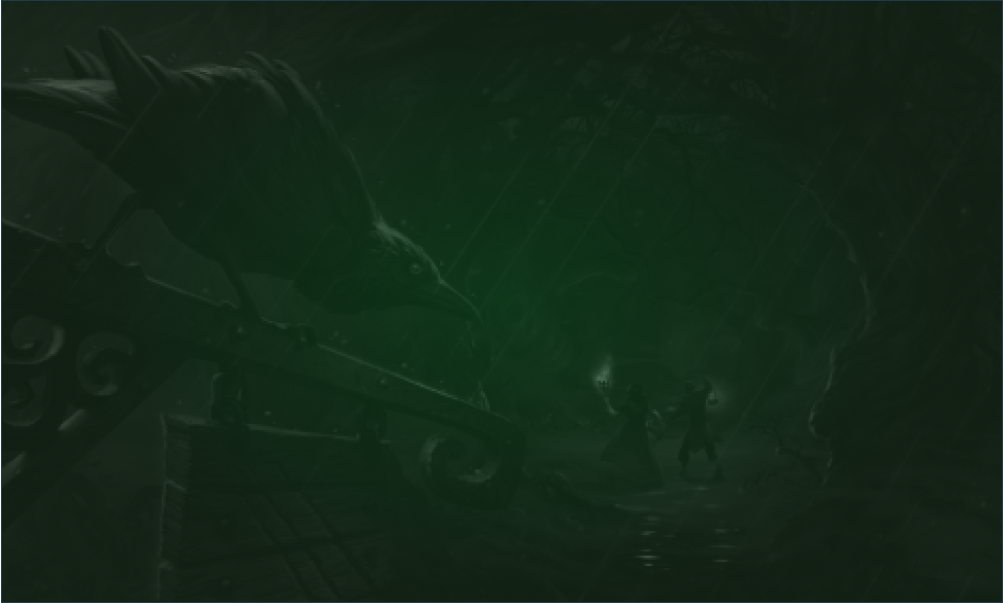
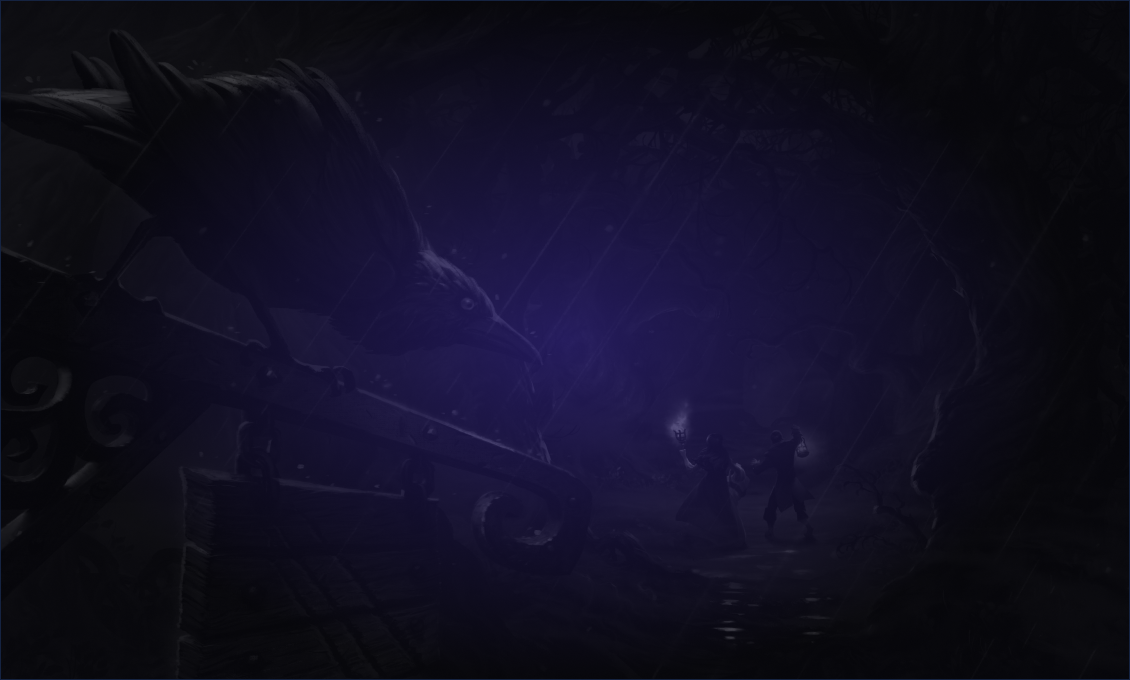
UI: update color for replays notif

diff --git a/core/src/js/services/replays/replays-notification.service.ts b/core/src/js/services/replays/replays-notification.service.ts
@@ -22,29 +22,10 @@ export class ReplaysNotificationService {
 			.subscribe(data => this.showNewMatchEndNotification(Object.assign(new GameStats(), data.data[0])));
 		// this.events.on(Events.GAME_END).subscribe(data => this.showReplayRecordingStart(data.data[0]));
 		console.log('[replays-notification] listening for achievement completion events');
+		window['hop'] = () => {
+			this.showNewMatchEndNotification({ stats: [GameStat.create({} as any)] } as any);
+		};
 	}
-
-	// private async showReplayRecordingStart(reviewId: string) {
-	// 	const prefs = await this.prefs.getPreferences();
-	// 	if (!prefs.replaysShowNotification) {
-	// 		console.log(
-	// 			'[replays-notification] preference is turned off, not showing replay start notification',
-	// 			reviewId,
-	// 		);
-	// 		return;
-	// 	}
-	// 	console.log('[replays-notification] preparing replay start notification', reviewId);
-	// 	// console.log('[replays-notification] will emit notif notification', stat);
-	// 	this.notificationService.emitNewNotification({
-	// 		notificationId: `replay-${reviewId}`,
-	// 		content: this.buildStartNotificationTemplate(reviewId),
-	// 		type: 'match-stats-recorded',
-	// 		app: 'replays',
-	// 		theClass: 'remove-on-update',
-	// 		clickToClose: true,
-	// 		timeout: 0,
-	// 	} as Message);
-	// }
 
 	private async showNewMatchEndNotification(stats: GameStats) {
 		const prefs = await this.prefs.getPreferences();
@@ -53,8 +34,6 @@ export class ReplaysNotificationService {
 			return;
 		}
 		const xpForGame = await this.rewards.getXpForGameInfo();
-		// Give some time for the replay to actually be recorded
-		// setTimeout(() => {
 		const stat = Object.assign(new GameStat(), stats.stats[0]);
 		console.log('[replays-notification] preparing new game stat notification', stat);
 		// console.log('[replays-notification] will emit notif notification', stat);
@@ -68,30 +47,7 @@ export class ReplaysNotificationService {
 			clickToClose: true,
 			eventToSendOnClick: () => new ShowReplayEvent(stat.reviewId),
 		} as Message);
-		// }, 3500);
 	}
-
-	// private buildStartNotificationTemplate(reviewId: string): string {
-	// 	return `
-	// 		<div class="match-stats-message-container replay-${reviewId} unclickable">
-	// 			<div class="loading-icon">
-	// 				<svg class="svg-icon-fill">
-	// 					<use xlink:href="assets/svg/sprite.svg#loading_spiral" />
-	// 				</svg>
-	// 			</div>
-	// 			<div class="message">
-	// 				<div class="title">
-	// 					<span>Game replay being recorded</span>
-	// 				</div>
-	// 				<span class="text">Hold tight!</span>
-	// 			</div>
-	// 			<button class="i-30 close-button">
-	// 				<svg class="svg-icon-fill">
-	// 					<use xmlns:xlink="https://www.w3.org/1999/xlink" xlink:href="assets/svg/sprite.svg#window-control_close"></use>
-	// 				</svg>
-	// 			</button>
-	// 		</div>`;
-	// }
 
 	private buildNotificationTemplate(stat: GameStat, xpForGame: XpForGameInfo): string {
 		const [playerRankFrame, playerRankArt, playerRankTooltip] = stat.buildPlayerRankImage();

diff --git a/core/src/js/services/rewards/rewards-monitor.ts b/core/src/js/services/rewards/rewards-monitor.ts
@@ -89,14 +89,6 @@ export class RewardMonitorService {
 			return;
 		}
 		this.init();
-		window['hop'] = async (levels: number, xp: number) => {
-			this.showXpGainedNotification(levels, xp, {
-				Level: 16,
-				Xp: 20,
-				XpBonusPercent: 10,
-				XpNeeded: 2000,
-			});
-		};
 	}
 
 	public async getXpGained(): Promise<number> {
@@ -200,50 +192,6 @@ export class RewardMonitorService {
 		return (
 			a.Level === b.Level && a.Xp === b.Xp && a.XpNeeded === b.XpNeeded && a.XpBonusPercent === b.XpBonusPercent
 		);
-	}
-
-	private showXpGainedNotification(levelsGained: number, xpGained: number, infoAtGameEnd: RewardsTrackInfo) {
-		const levelsGainedEl = levelsGained
-			? `
-				<div class="xp-level">
-					<span class="text">Levels gained:</span>
-					<span class="value">${levelsGained}</span>
-				</div>`
-			: '';
-		const xpBonusEl = infoAtGameEnd.XpBonusPercent
-			? `
-				<div class="xp-bonus">
-					<span class="text">Xp bonus:</span>
-					<span class="value">${infoAtGameEnd.XpBonusPercent}%</span>
-				</div>`
-			: '';
-		this.notificationService.emitNewNotification({
-			content: `
-				<div class="rewards-message-container">
-					<div class="title">Match over!</div>
-					${levelsGainedEl}
-					<div class="xp-text">
-						<span class="text">Xp gained:</span>
-						<span class="value">${xpGained}</span>
-						<div class="progress">
-							<span class="item bracket">[</span>
-							<span class="item">${infoAtGameEnd.Xp}</span>
-							<span class="item separator">/</span>
-							<span class="item">${infoAtGameEnd.XpNeeded}</span>
-							<span class="item bracket">]</span>
-						</div>
-					</div>
-					${xpBonusEl}
-					<button class="i-30 close-button">
-						<svg class="svg-icon-fill">
-							<use xmlns:xlink="https://www.w3.org/1999/xlink" xlink:href="assets/svg/sprite.svg#window-control_close"></use>
-						</svg>
-					</button>
-				</div>`,
-			notificationId: `rewards-${Date.now()}`,
-			timeout: 0,
-			type: 'rewards',
-		});
 	}
 }
 

diff --git a/core/src/css/component/notifications/notifications-replays.scss b/core/src/css/component/notifications/notifications-replays.scss
@@ -7,7 +7,7 @@
 	background-image: url('/Files/assets/images/backgrounds/replays-notif-bg.png');
 	background-size: 100%;
 	background-position: center center;
-	outline: 1px solid #3b5141;
+	outline: 1px solid #303352;
 	width: 375px;
 	height: 80px;
 	box-shadow: 0px 0px 8px rgba(0, 0, 0, 0.9);
@@ -64,11 +64,11 @@
 		right: 0;
 		width: 30px;
 		height: 30px;
-		--icon-color: #a2ccb0;
+		--icon-color: #9fb6d7;
 
 		&:hover {
-			--icon-color: #3b5141;
-			background: #a2ccb0;
+			--icon-color: #303352;
+			background: #9fb6d7;
 		}
 	}
 
@@ -158,8 +158,8 @@
 	visibility: hidden;
 	width: 120px;
 	padding: 5px;
-	background-color: #c4c4c4;
-	color: #061d14;
+	background-color: #9fb6d7;
+	color: #1f2142;
 	text-align: center;
 	display: flex;
 	align-items: center;
@@ -186,7 +186,7 @@
 		margin-left: -5px;
 		border-width: 5px;
 		border-style: solid;
-		border-color: #c4c4c4 transparent transparent transparent;
+		border-color: #9fb6d7 transparent transparent transparent;
 	}
 }
 

diff --git a/core/src/js/components/main-window.component.ts b/core/src/js/components/main-window.component.ts
@@ -115,7 +115,7 @@ export class MainWindowComponent implements AfterViewInit, OnDestroy {
 	dataState: MainWindowState;
 	navigationState: NavigationState;
 	windowId: string;
-	activeTheme: CurrentAppType;
+	activeTheme: CurrentAppType | 'decktracker-desktop';
 	cardsInitDone: boolean;
 
 	private isMaximized = false;
@@ -253,11 +253,11 @@ export class MainWindowComponent implements AfterViewInit, OnDestroy {
 		this.dataStoreSubscription?.unsubscribe();
 	}
 
-	private buildActiveTheme(): CurrentAppType {
+	private buildActiveTheme(): CurrentAppType | 'decktracker-desktop' {
 		return this.dataState.showFtue
 			? 'general'
-			: ['decktracker', 'duels'].includes(this.navigationState?.currentApp)
-			? 'battlegrounds'
+			: ['decktracker'].includes(this.navigationState?.currentApp)
+			? 'decktracker-desktop'
 			: this.navigationState?.currentApp;
 	}
 

diff --git a/core/src/js/directives/active-theme.directive.ts b/core/src/js/directives/active-theme.directive.ts
@@ -18,6 +18,9 @@ export class ActiveThemeDirective {
 	@HostBinding('class.decktracker-theme') get decktrackerTheme() {
 		return this.activeTheme === 'decktracker';
 	}
+	@HostBinding('class.decktracker-desktop-theme') get decktrackerDesktopTheme() {
+		return this.activeTheme === 'decktracker-desktop';
+	}
 	@HostBinding('class.replays-theme') get replaysTheme() {
 		return this.activeTheme === 'replays';
 	}
@@ -27,5 +30,5 @@ export class ActiveThemeDirective {
 	@HostBinding('class.general-theme') get generalTheme() {
 		return this.activeTheme === 'general';
 	}
-	@Input() activeTheme: CurrentAppType | 'general' | 'battlegrounds';
+	@Input() activeTheme: CurrentAppType | 'general' | 'battlegrounds' | 'decktracker-desktop';
 }

diff --git a/core/src/css/component/notifications/notifications-rewards.scss b/core/src/css/component/notifications/notifications-rewards.scss
@@ -8,7 +8,7 @@
 	background-image: url('/Files/assets/images/backgrounds/home-screen-bg.png');
 	background-size: 100%;
 	background-position: center center;
-	outline: 1px solid #472406;
+	outline: 1px solid #303352;
 	box-shadow: 0px 0px 8px rgba(0, 0, 0, 0.9);
 	padding: 15px;
 	font-family: 'Open Sans', sans-serif;
@@ -51,12 +51,11 @@
 		right: 0;
 		width: 30px;
 		height: 30px;
-		--icon-color: #d9c3ab;
+		--icon-color: #9fb6d7;
 
 		&:hover {
-			color: #190505;
-			--icon-color: #190505;
-			background: #d9c3ab;
+			--icon-color: #303352;
+			background: #9fb6d7;
 		}
 	}
 }

diff --git a/core/src/js/components/window-wrapper.component.ts b/core/src/js/components/window-wrapper.component.ts
@@ -7,7 +7,7 @@ import {
 	Input,
 	OnDestroy,
 	ViewEncapsulation,
-	ViewRef,
+	ViewRef
 } from '@angular/core';
 import { OverwolfService } from '../services/overwolf.service';
 
@@ -21,6 +21,7 @@ import { OverwolfService } from '../services/overwolf.service';
 		`../../css/themes/achievements-theme.scss`,
 		`../../css/themes/battlegrounds-theme.scss`,
 		`../../css/themes/decktracker-theme.scss`,
+		`../../css/themes/decktracker-desktop-theme.scss`,
 		`../../css/themes/replays-theme.scss`,
 		`../../css/themes/duels-theme.scss`,
 		`../../css/themes/general-theme.scss`,

diff --git a/core/src/css/themes/decktracker-desktop-theme.scss b/core/src/css/themes/decktracker-desktop-theme.scss
@@ -1,12 +1,12 @@
-:host.duels-theme,
-.duels-theme {
+:host.decktracker-desktop-theme,
+.decktracker-desktop-theme {
 	--window-background-image-backup: radial-gradient(
 		340px at 50% 50%,
 		rgba(94, 11, 70, 1) 0%,
 		rgba(43, 24, 39, 1) 100%
 	);
 	--window-background-image: radial-gradient(340px at 50% 50%, rgba(94, 11, 70, 0.7) 0%, rgba(43, 24, 39, 0.7) 100%),
-		url('/Files/assets/images/backgrounds/duels.jpg');
+		url('/Files/assets/images/backgrounds/decktracker_main_window.png');
 	--color-1: #dfb3d3;
 	--color-2: #ce73b4;
 	--color-3: #841063;
